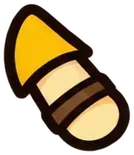
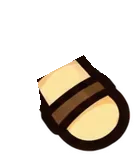
fix: attach head ornament and clean wrist asset outlines

diff --git a/tests/rig-browser.py b/tests/rig-browser.py
@@ -1,0 +1,81 @@
+"""Pixel regressions for the ornament seam and trimmed free wrist."""
+import os
+from playwright.sync_api import sync_playwright
+
+BASE = os.environ.get('BASE_URL', 'http://127.0.0.1:8000')
+
+with sync_playwright() as p:
+    browser = p.chromium.launch(executable_path=os.environ.get('CHROMIUM', '/usr/bin/chromium'), args=['--no-sandbox'])
+    page = browser.new_page()
+    page.goto(BASE)
+    failures = page.evaluate('''async () => {
+        const {loadArtwork, drawWarrior} = await import('/src/render.mjs');
+        const art = await loadArtwork();
+        art.rig.scale = .8;
+        const failures = [];
+        const canvas = () => {
+            const c = document.createElement('canvas'); c.width = 1400; c.height = 1400;
+            return c.getContext('2d');
+        };
+        const transparent = document.createElement('canvas');
+        transparent.width = transparent.height = 1;
+        // The source asset itself must be clean, including when reused without
+        // the runtime mask. These are the two reported outline remnants.
+        const source = document.createElement('canvas');
+        source.width = 134; source.height = 155;
+        const sourceCtx = source.getContext('2d');
+        sourceCtx.drawImage(art.parts.hand_front, 0, 0);
+        for (const [x, y] of [[33, 78], [85, 50]]) {
+            if (sourceCtx.getImageData(x, y, 1, 1).data[3] > 10)
+                failures.push(`source asset: untrimmed wrist outline at ${x},${y}`);
+        }
+        const wristArt = {...art, parts: Object.fromEntries(Object.keys(art.parts).map(
+            name => [name, name === 'hand_front' ? art.parts[name] : transparent]))};
+        const alpha = (ctx, point) => ctx.getImageData(Math.floor(point.x), Math.floor(point.y), 1, 1).data[3];
+        for (const facing of [-1, 1]) for (const state of ['idle', 'walk', 'attack', 'hit']) {
+            for (const elapsed of [0, .1, .2, .3]) {
+                const label = `${facing}/${state}/${elapsed}`;
+                const unit = {id: 1, state, facing, elapsed, attackVector: {x: facing * 72, y: 42}};
+                const ctx = canvas(), draws = new Map();
+                const drawImage = ctx.drawImage.bind(ctx);
+                ctx.drawImage = (image, ...args) => {
+                    for (const name of ['head', 'head_deco', 'hand_front']) {
+                        if (image === art.parts[name]) draws.set(name, {matrix: ctx.getTransform(), args});
+                    }
+                    drawImage(image, ...args);
+                };
+                ctx.translate(700, 1250);
+                drawWarrior(ctx, art, unit, elapsed);
+                const point = (name, x, y) => {
+                    const {matrix, args: [dx, dy, w, h]} = draws.get(name);
+                    const image = art.parts[name];
+                    return matrix.transformPoint({x: dx + x / image.width * w, y: dy + y / image.height * h});
+                };
+                // These original ornament pixels follow the underside of the small
+                // rear petal at the reported gap; the face must overlap this seam.
+                const head = canvas(), headDraw = draws.get('head');
+                head.setTransform(headDraw.matrix);
+                head.drawImage(art.parts.head, ...headDraw.args);
+                for (const [x, y] of [[40, 94], [42, 92], [44, 90], [46, 88]]) {
+                    if (alpha(head, point('head_deco', x, y)) < 150)
+                        failures.push(`${label}: ornament has a gap at ${x},${y}`);
+                }
+                // Render the actual wrist alone: hidden remnants must be gone from
+                // its silhouette, rather than merely covered by another body part.
+                const wrist = canvas(); wrist.translate(700, 1250);
+                drawWarrior(wrist, wristArt, unit, elapsed);
+                for (const [x, y] of [[33, 78], [85, 50]]) {
+                    if (alpha(wrist, point('hand_front', x, y)) > 10)
+                        failures.push(`${label}: untrimmed wrist outline at ${x},${y}`);
+                }
+                for (const [x, y] of [[75, 85], [95, 115]]) {
+                    if (alpha(wrist, point('hand_front', x, y)) < 200)
+                        failures.push(`${label}: cuff or palm was cut away at ${x},${y}`);
+                }
+            }
+        }
+        return failures;
+    }''')
+    browser.close()
+    assert not failures, '\n'.join(failures[:12]) + f'\n{len(failures)} pixel failures'
+    print('PASS rig pixels: ornament attached and wrist remnants removed in both facings and all four states')

diff --git a/assets/README.md b/assets/README.md
@@ -6,18 +6,20 @@ Transparent image layers cut from an original generated sprite sheet, prepared f
 
 - `assets/units/gynari-warrior/`: head, head_deco, torso with built-in yellow sleeves, separate wrist/hand sources, alternate wrist poses, separate feet, shadow, and `rig.json`.
 - `assets/equipment/weapons/basic_sword.webp`: standalone sword. Do **not** merge sword pixels into the hand asset.
-- `.webp` files are the existing approved game-use layers; their pixels are unchanged.
+- `.webp` files retain the approved painted artwork. `hand_back.webp` has an alpha-only trim to remove the duplicate sleeve and the two protruding wrist outline ends, preserving its dimensions and retained pixels in lossless WebP.
 
 ## Rendering
 
 - Treat the **bottom of the feet** as the board cell pivot.
-- `rig.json` v4 matches the supplied character motif on a 1000×1500 artboard: a head slightly smaller than the reference relative to the tunic, a steeper leaf, compact cuffs and a wider short-boot stance. Preserve source image aspect ratios when resizing parts. Canvas assembly lives in `src/render.mjs`.
-- The torso already has yellow sleeves. Hand source images also contain a yellow sleeve: the normalized `clip` polygons keep only the cuff/palm so no duplicate shoulder is drawn.
+- `rig.json` v5 matches the supplied character motif on a 1000×1500 artboard: a head slightly smaller than the reference relative to the tunic, a steeper leaf, compact cuffs and a wider short-boot stance. Preserve source image aspect ratios when resizing parts. Canvas assembly lives in `src/render.mjs`.
+- The torso already has yellow sleeves. The weapon-hand source still includes a yellow sleeve, while the free-hand source is trimmed to the wrist. Normalized `clip` polygons keep both draws within the cuff/palm boundary so no duplicate shoulder is drawn.
+- The free wrist mask also trims the two protruding ends of the old sleeve outline. Its image is tucked farther under the torso sleeve while its pivot stays at the same sleeve attachment, keeping the trimmed edge covered during motion.
 - `hand_back` and `hand_front` identify assembly roles; each role chooses the source image whose wrist points outward on that side.
 - Wrists rotate at their sleeve attachment; the weapon forearm passes behind the tunic and the free cuff overlaps its front edge. The separate sword rotates around the palm grip and inherits the same arm transformation. The face and leaf hair share one neck transformation.
 - Head decoration is drawn behind the face, then its `front_clip` region is drawn over the crown. This keeps the rear petal/stem behind the head without changing the artwork or leaf size.
+- The decoration is registered inward and downward so the small rear petal's inner edge overlaps the head outline instead of leaving a transparent wedge at the join.
 - Boots are partly covered by the tunic; walk rotation and lift keep their roots inside it. Shadow stays on the foot contact plane.
 - Runtime states `idle`, `walk`, `attack`, `hit` animate this rig; the board model owns positions and impact timing.
 - Render board tilt separately. Do **not** skew characters with the board.
 
-Validate both facings and enlarged idle/walk/attack/hit poses when changing these coordinates. `tests/rig.test.mjs` covers motif silhouette proportions and arm order, head decoration occlusion, sleeve masks, shoulder/neck attachments, boot overlap and sword grip continuity. There is no separate rear-view artwork.
+Validate both facings and enlarged idle/walk/attack/hit poses when changing these coordinates. `tests/rig.test.mjs` covers motif silhouette proportions and arm order, head decoration occlusion, sleeve masks, shoulder/neck attachments, boot overlap and sword grip continuity. `tests/rig-browser.py` checks actual rendered pixels at the ornament seam and wrist outline in both facings and all four states. There is no separate rear-view artwork.

diff --git a/README.md b/README.md
@@ -29,6 +29,7 @@ node --test tests/*.test.mjs
 # Python Playwright + Chromium을 설치한 검증 환경에서 정적 호스팅 주소 지정:
 BASE_URL=https://your-static-host.example python3 tests/browser.py
 BASE_URL=https://your-static-host.example python3 tests/mobile-layout.py
+BASE_URL=https://your-static-host.example python3 tests/rig-browser.py
 ```
 
 브라우저 검증은 기본적으로 `/usr/bin/chromium`을 사용합니다. 다른 설치 경로는 `CHROMIUM`, 호스팅 주소는 `BASE_URL` 환경 변수로 지정할 수 있습니다. 데스크톱과 모바일 터치에서 소환·선택·실제 보행·공격·피격·드래그·핀치·초기화, 지형 변경, 이미지 누락 안내를 검사합니다. 모바일 레이아웃 검증은 다섯 화면 크기에서 확대·이동해도 전장이 헤더·조작부 영역을 침범하지 않는지, 화면 높이가 바뀌어도 배치가 유지되는지 검사합니다.
